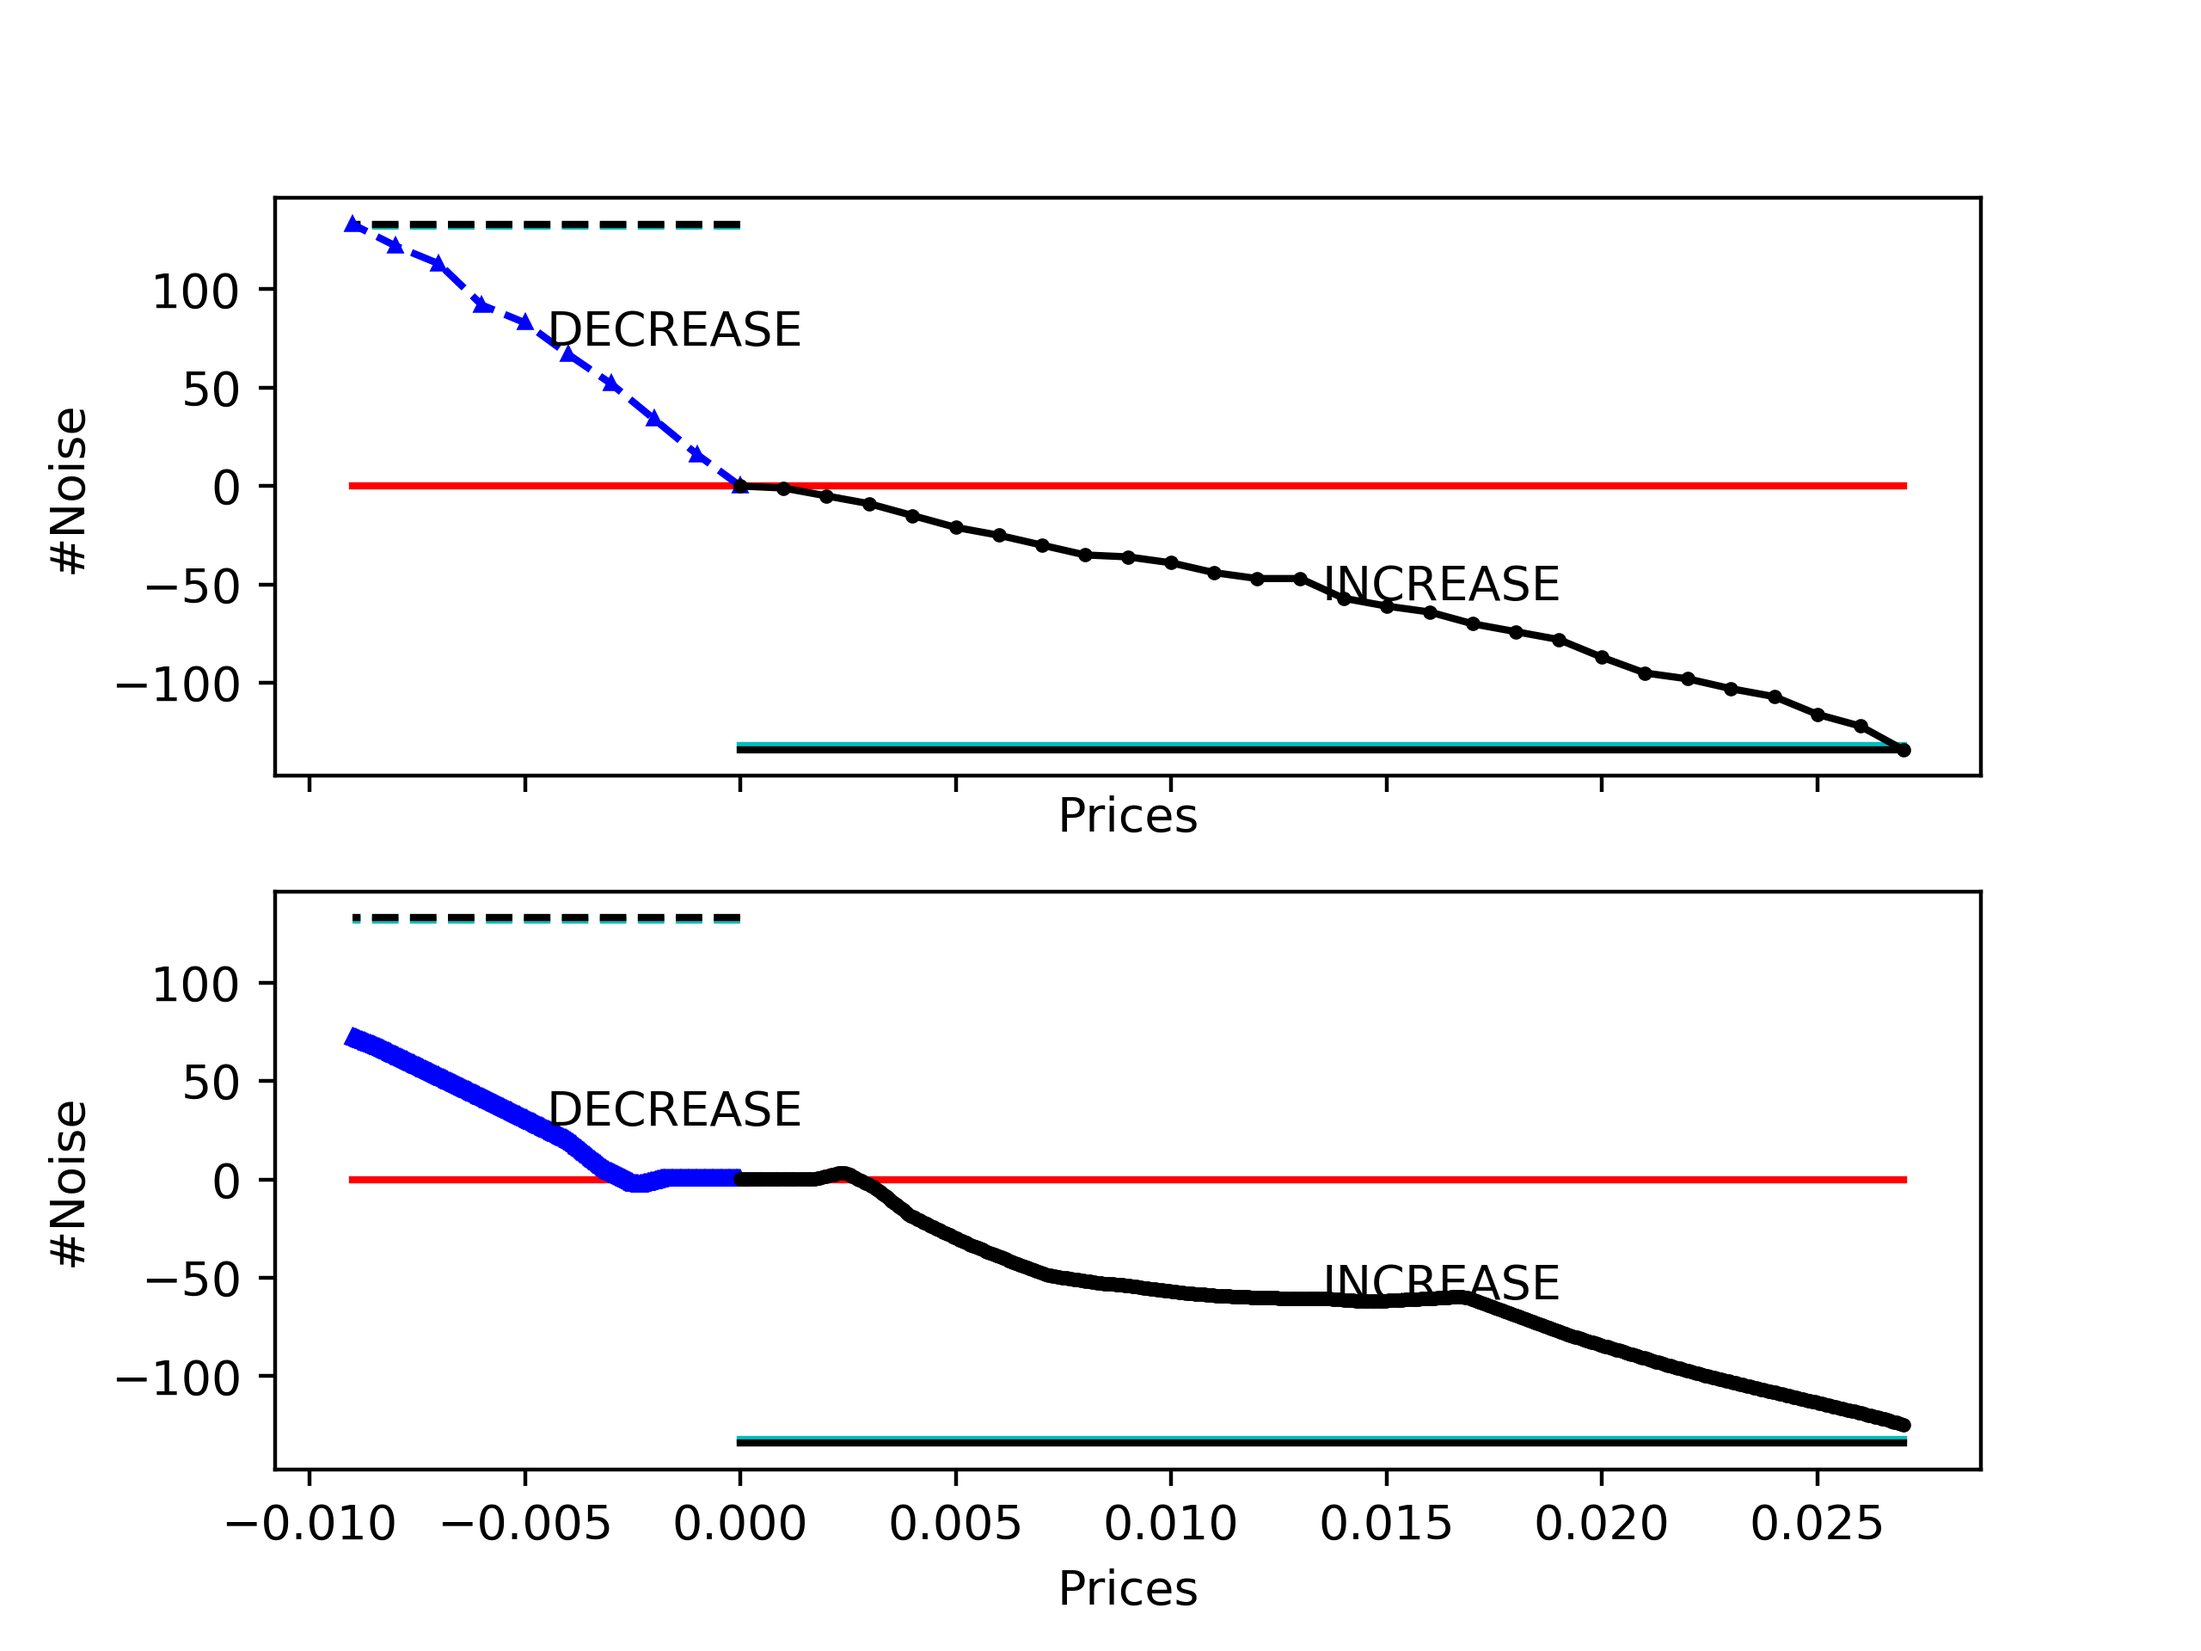
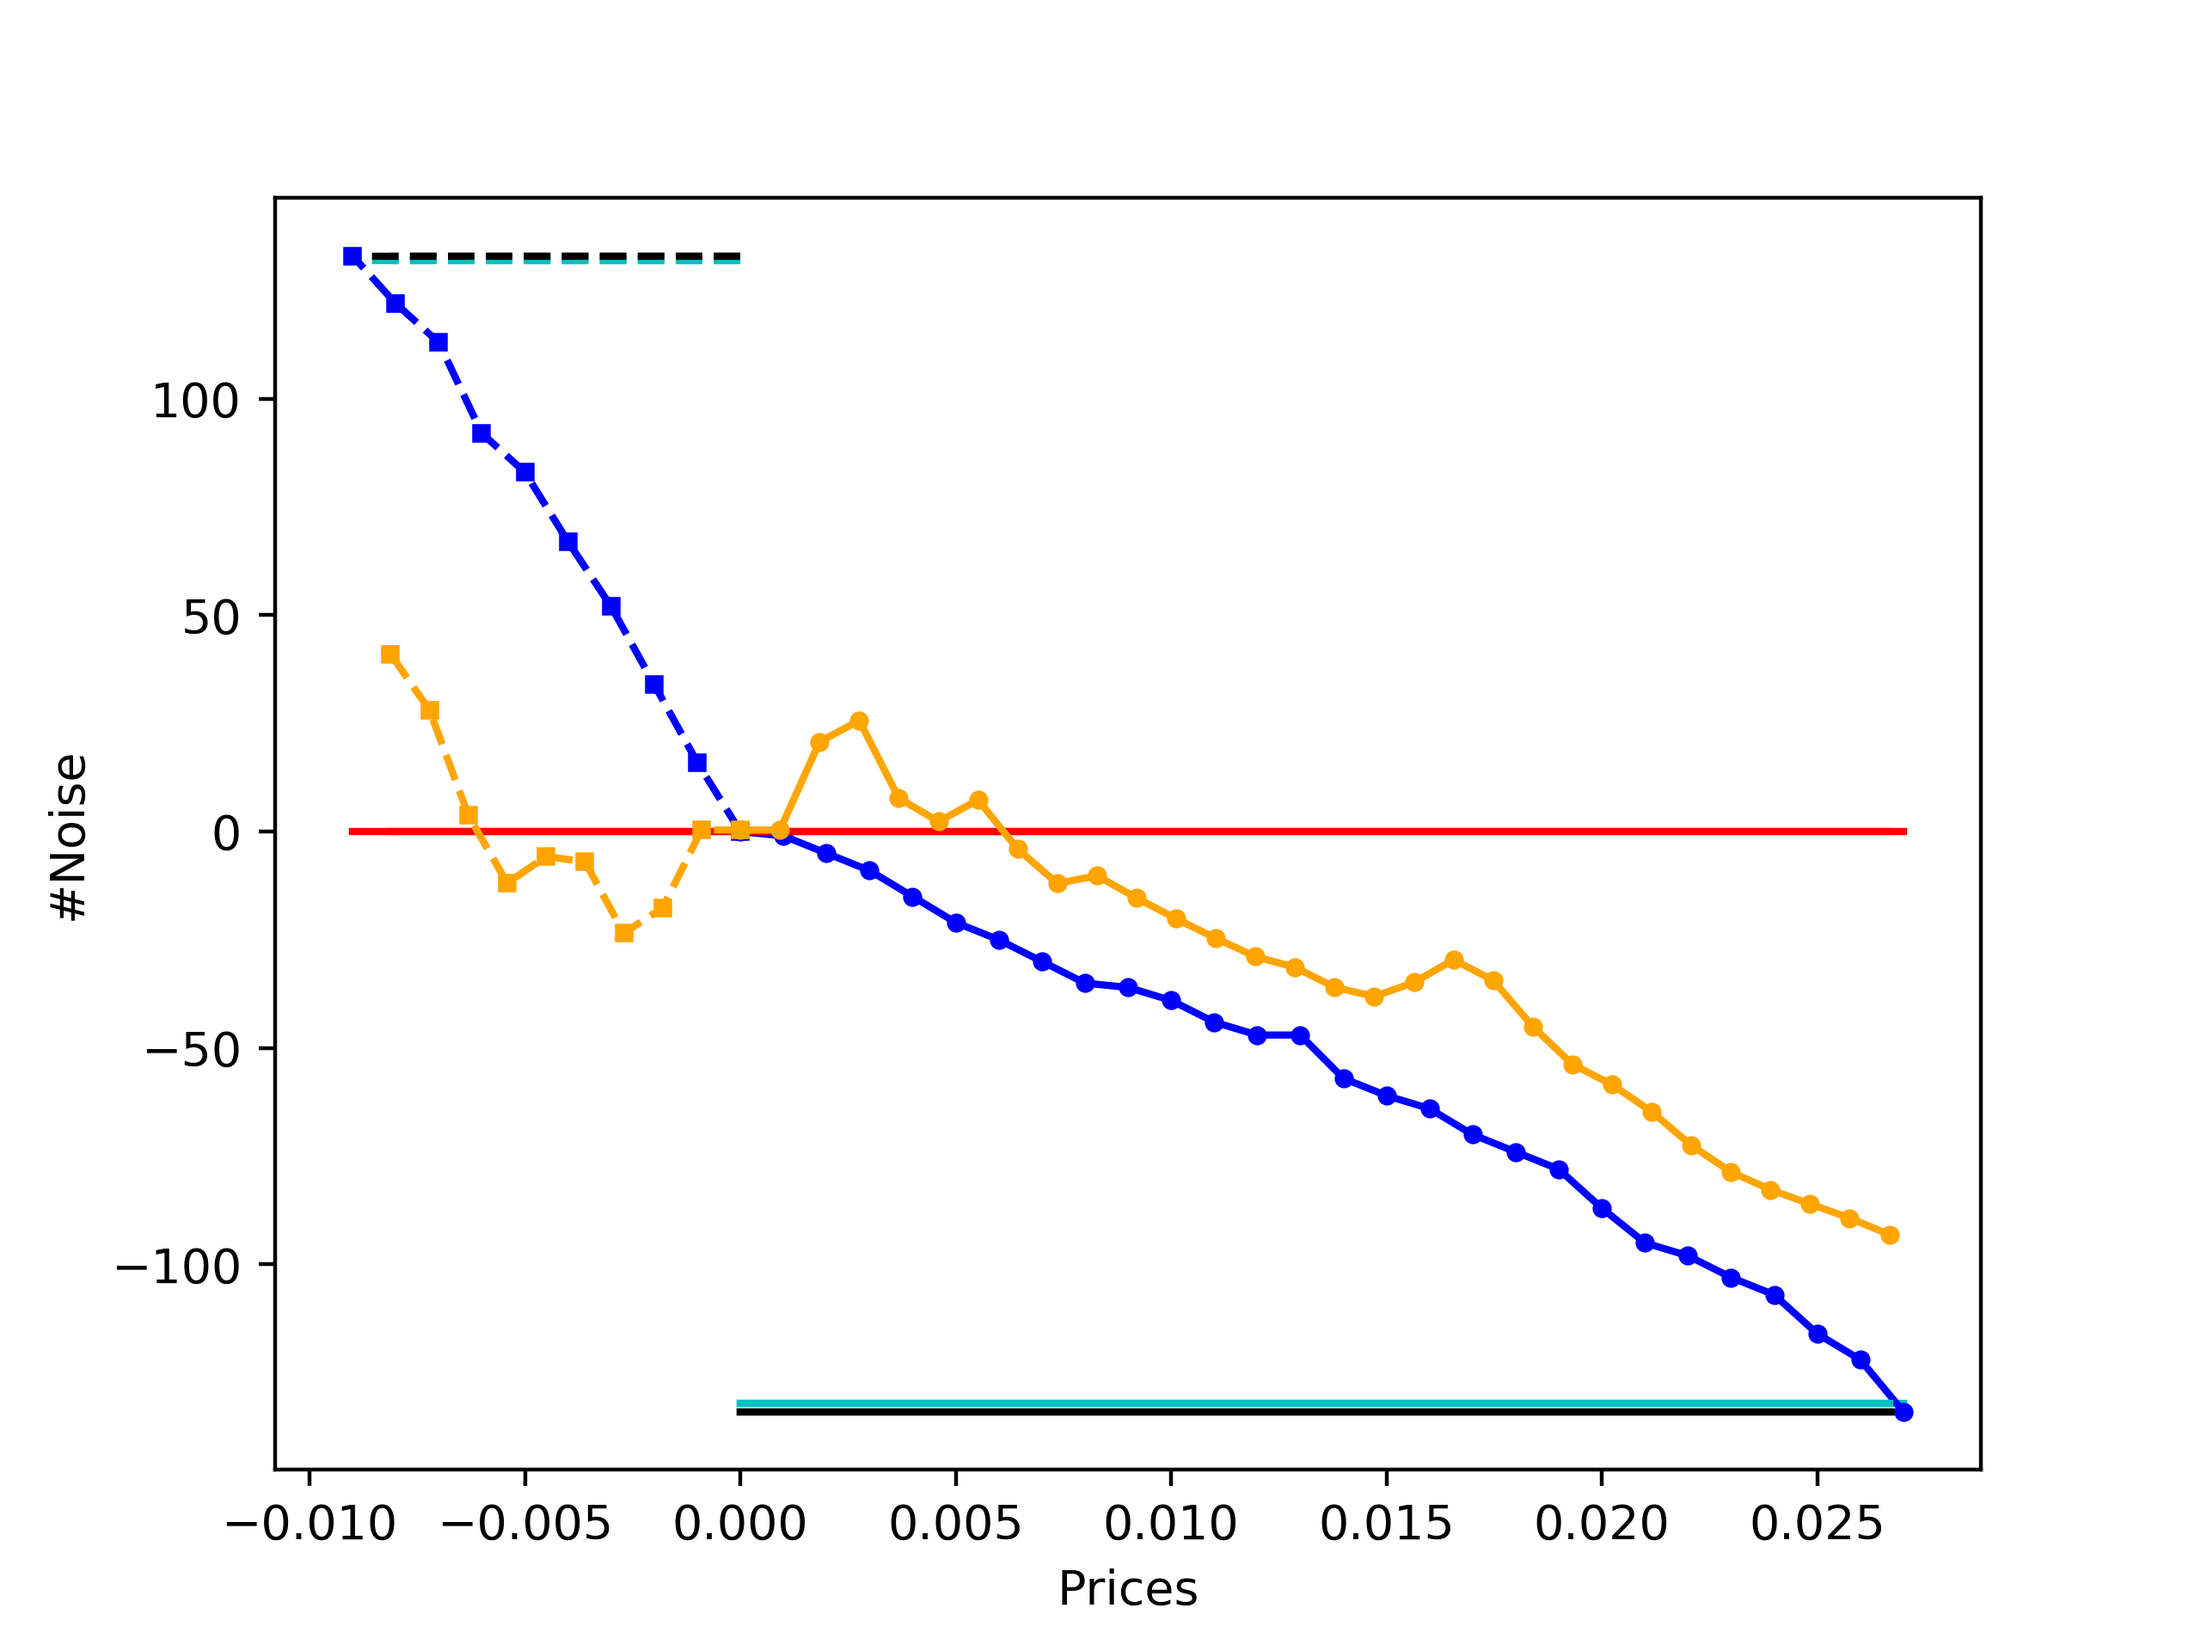
plot

diff --git a/core.py b/core.py
@@ -1702,9 +1702,9 @@ class MyModel(object):
     def trend(self, prices, B, mu, sigma,
               start_pos=1000, end_pos=1100,
               delta=0.001, max_iteration=10000):
-        start_pos = 500
-        # end_pos = 510
-        end_pos = 600
+        tart_pos = 500
+        end_pos = 510
+        # end_pos = 600
         # end_pos = 1012
         assert start_pos > 0, colors.red("start_pos must be larger than 0")
         assert start_pos < end_pos, colors.red("start_pos must be less than end_pos")
@@ -1783,7 +1783,8 @@ class MyModel(object):
         guess_prices = []
         k = start_pos
         seq = 1
-        repeating = 100
+        # repeating = 100
+        repeating = 1
 
         nb_plays = self._nb_plays
         activation = self._activation
